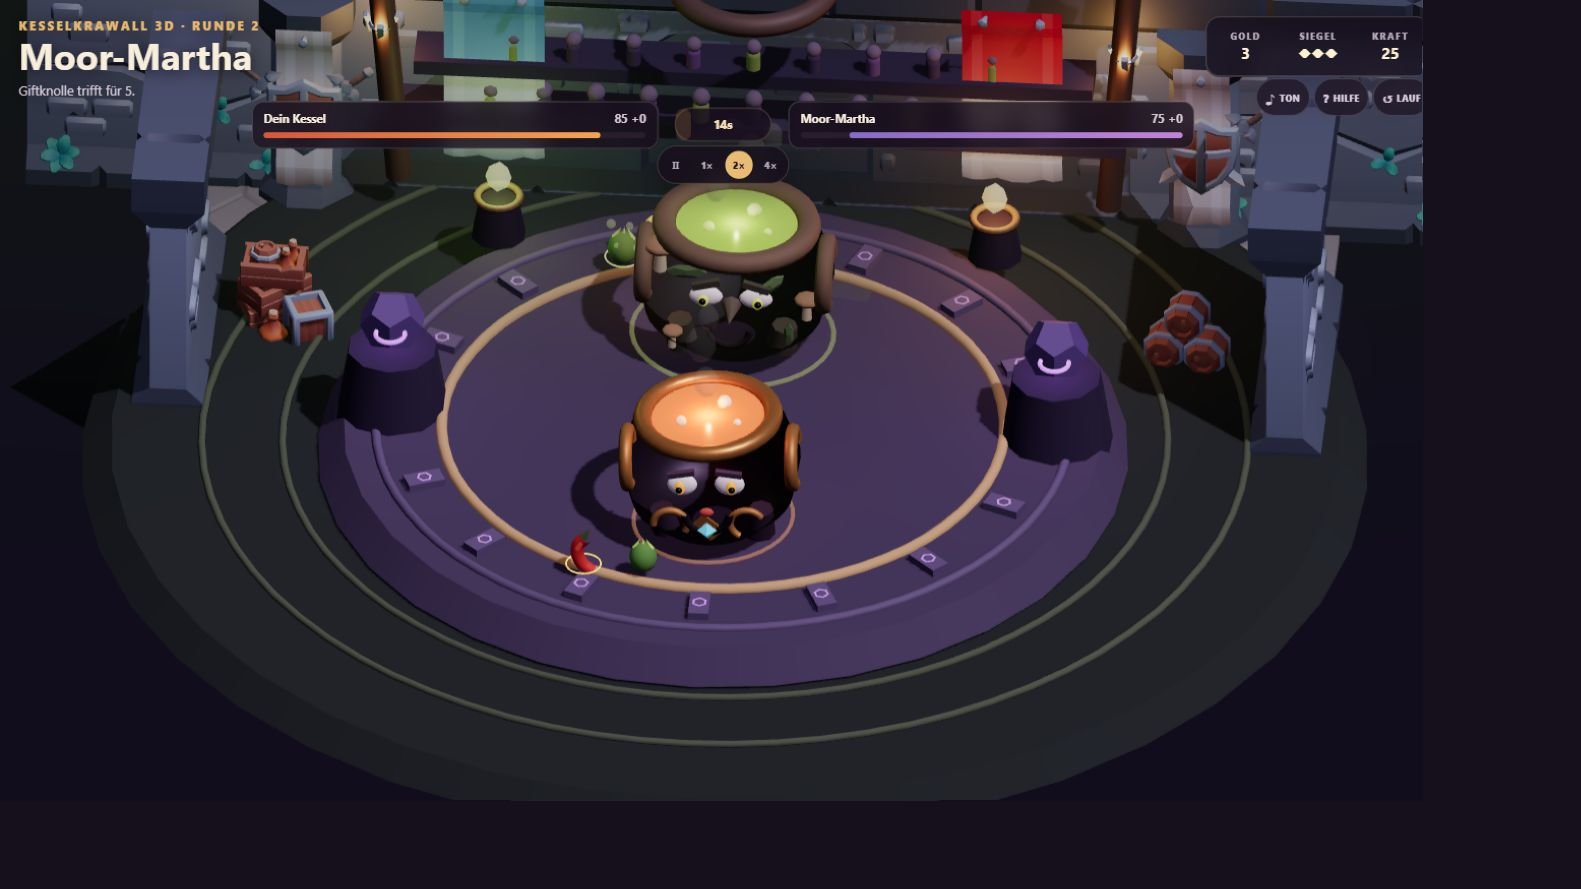
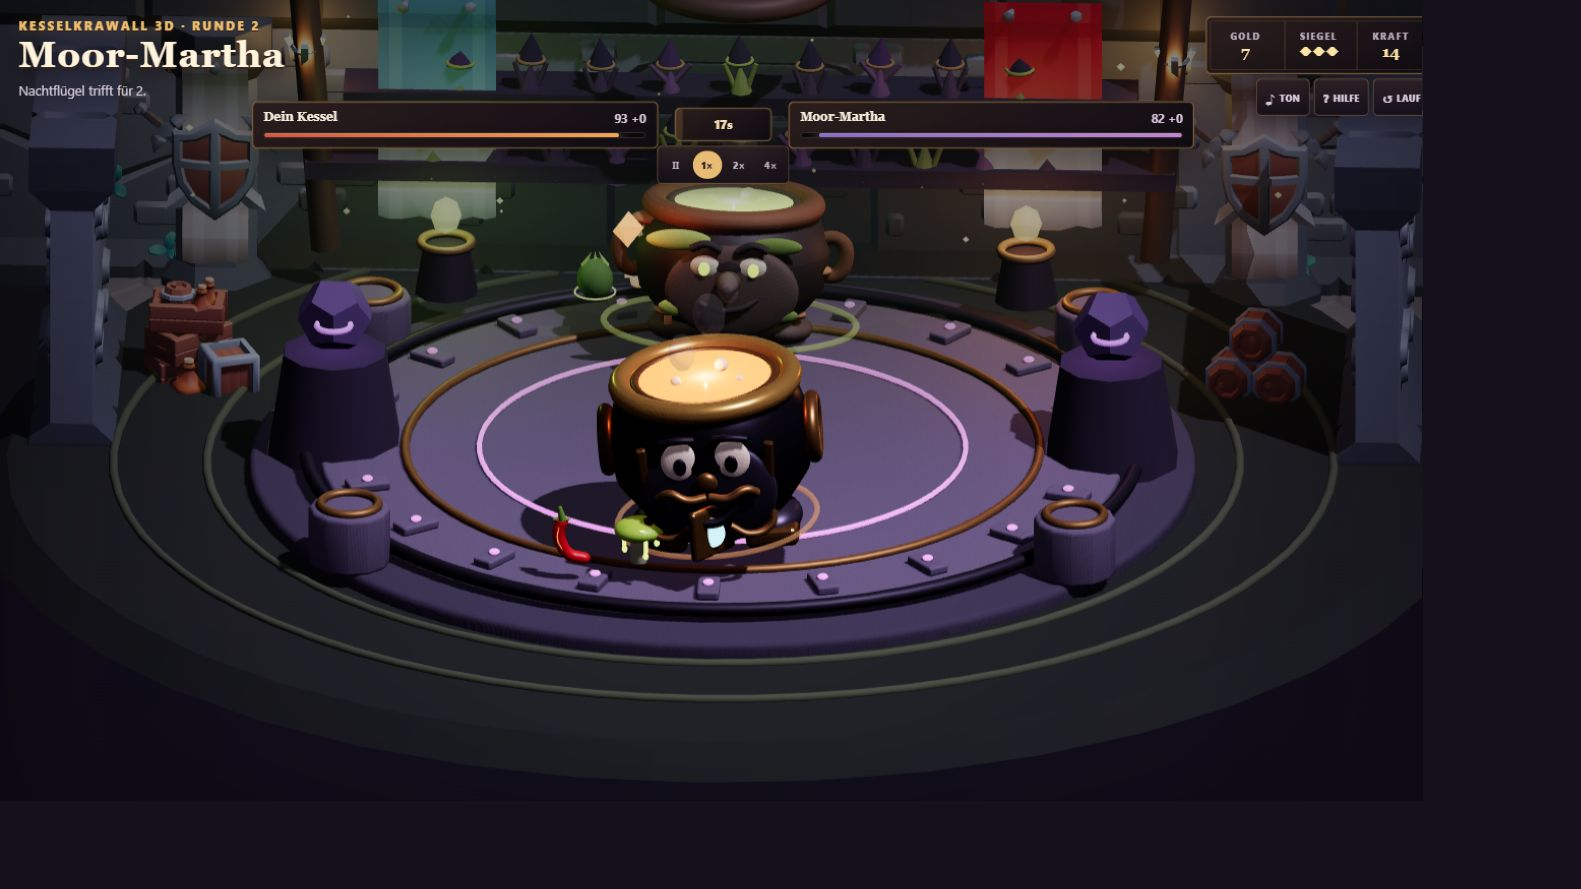
Polish arena composition and showcase

diff --git a/src/presentation/scene/ArenaGreybox.tsx b/src/presentation/scene/ArenaGreybox.tsx
@@ -34,7 +34,7 @@ function ArenaIngredients({ scene, side }: {
   side: "player" | "enemy";
 }) {
   const board = side === "player" ? scene.board : scene.opponent.board;
-  const z = side === "player" ? 3.65 : -3.55;
+  const z = side === "player" ? 4.05 : -3.9;
   return (
     <group>
       {board.map((item, index) => {
@@ -244,7 +244,7 @@ export function ArenaGreybox({ scene }: { scene: ArenaSceneState }) {
     ? activeBoard.findIndex((item) => item?.uid === activeEvent.sourceUid)
     : -1;
   const sourcePosition = activeSlot >= 0
-    ? ([(activeSlot - 2) * 0.82, 1.02, activeEvent?.actor === "enemy" ? -3.55 : 3.65] as [number, number, number])
+    ? ([(activeSlot - 2) * 0.82, 1.02, activeEvent?.actor === "enemy" ? -3.9 : 4.05] as [number, number, number])
     : undefined;
   return (
     <group>
@@ -320,17 +320,17 @@ export function ArenaGreybox({ scene }: { scene: ArenaSceneState }) {
       </ProductionAssetBoundary>
       <CauldronActor
         accent="#d87442"
-        position={[0, 1.28, 2.25]}
+        position={[0, 1.28, 3.05]}
         reaction={reactionFor("player", scene)}
         reactionKey={eventKey}
         variant="player"
       />
       <CauldronActor
         accent={scene.opponent.id === "moor-martha" ? "#91b640" : "#7f71ce"}
-        position={[0, 1.28, -2.15]}
+        position={[0, 1.18, -2.85]}
         reaction={reactionFor("enemy", scene)}
         reactionKey={eventKey}
-        scale={1.08}
+        scale={scene.opponent.id === "moor-martha" ? 0.86 : 0.9}
         variant={scene.opponent.id}
       />
       <ArenaIngredients scene={scene} side="player" />

diff --git a/src/presentation/scene/FixedCamera.tsx b/src/presentation/scene/FixedCamera.tsx
@@ -18,9 +18,9 @@ export function FixedCamera({ mode }: { mode: GreyboxMode }) {
     }
 
     if (camera instanceof OrthographicCamera) {
-      const heightZoom = size.height / (mode === "workshop" ? 8.65 : 9.35);
-      const widthZoom = size.width / (mode === "workshop" ? 11.8 : 12.4);
-      camera.zoom = Math.max(27, Math.min(72, heightZoom, widthZoom));
+      const heightZoom = size.height / (mode === "workshop" ? 8.65 : 8.7);
+      const widthZoom = size.width / (mode === "workshop" ? 11.8 : 12);
+      camera.zoom = Math.max(27, Math.min(mode === "workshop" ? 72 : 84, heightZoom, widthZoom));
       camera.near = 0.1;
       camera.far = 80;
       camera.updateProjectionMatrix();

diff --git a/src/presentation/scene/BattleVfx.tsx b/src/presentation/scene/BattleVfx.tsx
@@ -212,8 +212,8 @@ export function BattleVfx({ frame, sourcePosition }: {
   if (!event) return null;
 
   const color = EVENT_COLORS[event.kind];
-  const playerPoint: Vector3Tuple = [0, 2.05, 2.2];
-  const enemyPoint: Vector3Tuple = [0, 2.05, -2.1];
+  const playerPoint: Vector3Tuple = [0, 2.08, 3.05];
+  const enemyPoint: Vector3Tuple = [0, 1.92, -2.85];
   const source = sourcePosition ?? (event.actor === "player" ? playerPoint : enemyPoint);
   const destination = event.target === "player" ? playerPoint : enemyPoint;
   const selfTargeted = event.actor === event.target;

diff --git a/README.md b/README.md
@@ -21,11 +21,17 @@ läuft vollständig clientseitig und benötigt kein Konto.
 ## Aktueller Stand
 
 Legacy-Audit, renderer-neutraler Core, spielbarer 3D-Vertical-Slice und der
-erste Production-Art-Pass sowie Mobile-/UX-Polish sind umgesetzt. Der Lauf führt vom Drei-Angebote-Shop
-über Kauf, sichtbaren Merge, Synergieanzeige und Slot-Tausch in einen
-deterministisch simulierten 3D-Kampf mit HP, VFX, Ergebnis und Rückkehr zur
-Werkbank. Kein Legacy-Presentation-Code und kein Legacy-Asset wurde in den
-Runtime-Build übernommen.
+Blender-/North-Star-Art-Pass sowie Mobile-/UX-Polish sind umgesetzt. Der Lauf
+führt vom Drei-Angebote-Shop über Kauf, sichtbaren Merge, Synergieanzeige und
+Slot-Tausch in einen deterministisch simulierten 3D-Kampf mit HP, VFX, Ergebnis
+und Rückkehr zur Werkbank. Kein Legacy-Presentation-Code und kein
+Legacy-Runtime-Asset wurde übernommen.
+
+Der aktuelle Golden Slice besitzt originale GLB-Modelle für den Spieler-Kessel,
+Moor-Martha, Glut-Chili, Schleimpilz, Runenschale, Werkbank und Arena-Dais. Die
+reproduzierbare Blender-5.2-Pipeline liegt unter `art/blender/`. Hinzu kommen
+bewegtes Alchemistenpublikum, Ambient-Magie, Fire-/Poison-/Guard-Trails und
+Impacts sowie ein Fantasy-UI-Pass mit dunklen Schmiedepaneelen und Messingkanten.
 
 Zusätzlich enthalten sind Kampagnenwahl, Reservebedienung, gespeicherter
 Shop-Run und Kampagnenfortschritt, Kurzeinführung, synthetisierte Web-Audio-SFX,
